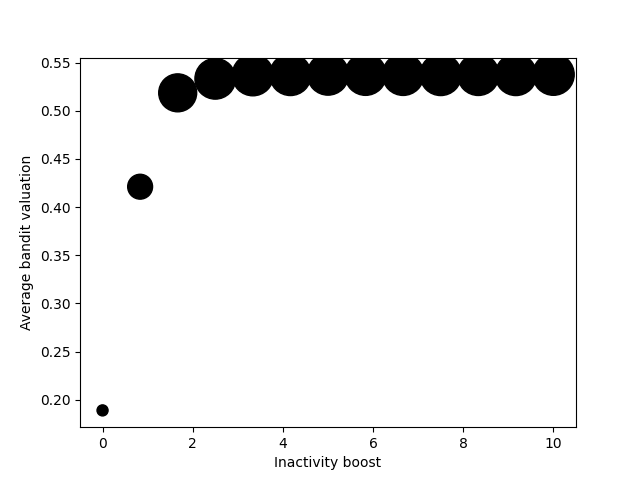
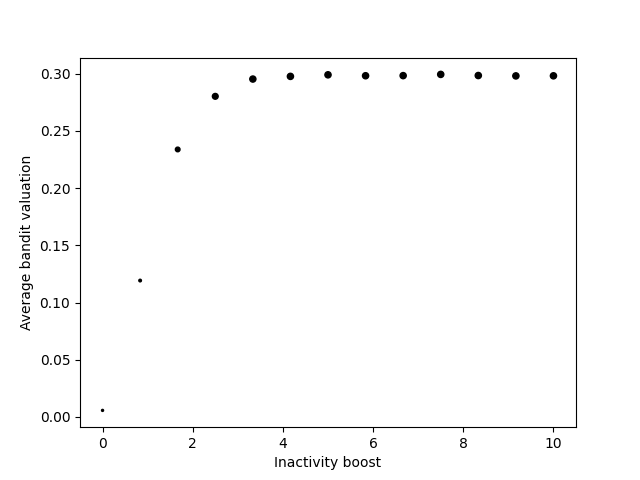
finalised exp 10

diff --git a/src/playground/11_mixed_metric.py b/src/playground/11_mixed_metric.py
@@ -37,7 +37,6 @@ def plot_average_bandit_valuations(auction_modifiers):
 
 
 def plot_metric_over_time(results_folder_name, metrics_adaptive, metrics_random, variable_name, exclude_first_x=13):
-    # We exclude the first x trials because during that time, the bandit algorithm is just trying out all x options for the 1st time.
     # Calculate the average metric value for each auction
     x = list(range(len(metrics_adaptive[0])))
     y_adaptive = [0] * len(metrics_adaptive[0])
@@ -89,8 +88,8 @@ class AuctionModifier:
 
     def init_bandit_params(self):
         uninformed_score = 0
-        initial_temperature = 0.1  # was 0.1
-        final_temperature = 0.01  # was 0.01
+        initial_temperature = 0.2  # was 0.1
+        final_temperature = 0.05  # was 0.01
         # calculate the decay needed to reach the final temperature after num_of_auctions auctions
         temperature_decay = (initial_temperature -
                              final_temperature) / self.num_of_auctions
